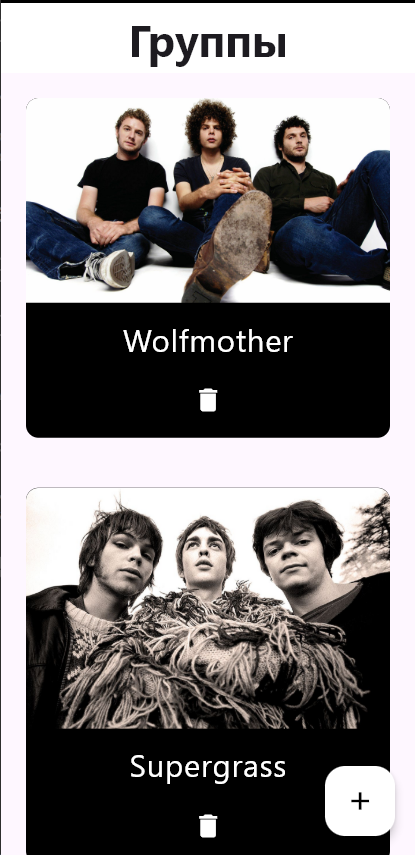
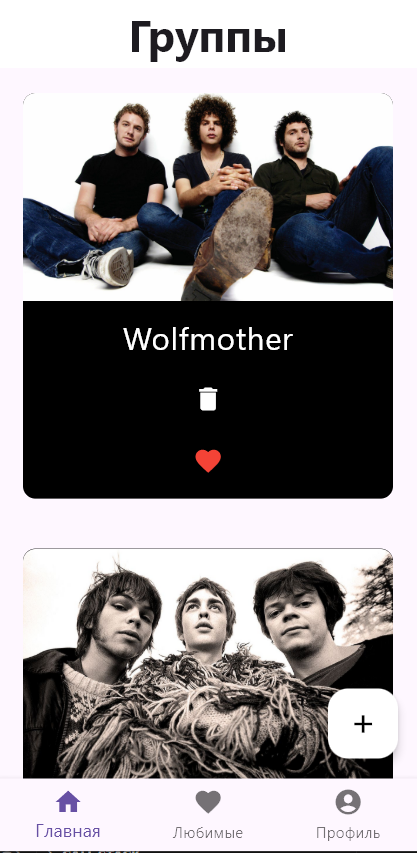
Изменил readme

diff --git a/lib/pages/cart.dart b/lib/pages/cart.dart
@@ -1,0 +1,15 @@
+import 'package:flutter/material.dart';
+
+class Cart extends StatefulWidget {
+  const Cart({super.key});
+
+  @override
+  State<Cart> createState() => _CartState();
+}
+
+class _CartState extends State<Cart> {
+  @override
+  Widget build(BuildContext context) {
+    return const Placeholder();
+  }
+}

diff --git a/README.md b/README.md
@@ -1,11 +1,11 @@
 # Будяшкин Булат Равилевич ЭФБО-02-22
-# Практическая работа №4
+# Практическая работа №5
 
-## Главная страница со значком добавления новой группы
+## Главная страница со значком избранного
 ![alt text](1.png)
 
-## Страница с добавлением новой группы
+## Страница избранного
 ![alt text](2.png)
 
-## Всплывающее окно с предупреждением об удалении группы
+## Страница профиля
 ![alt text](3.png)
